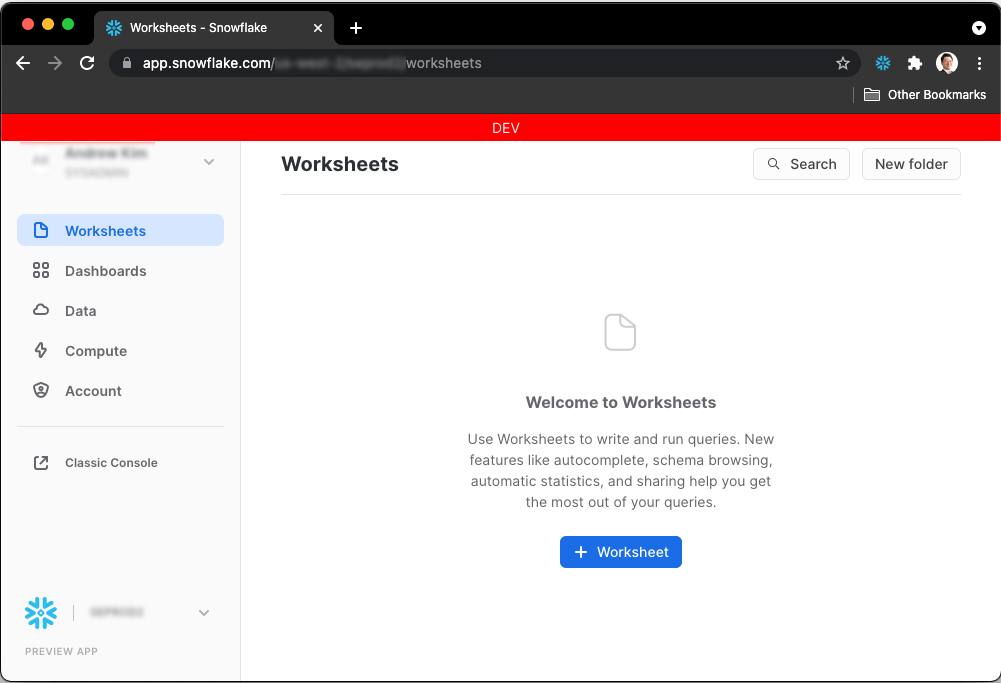
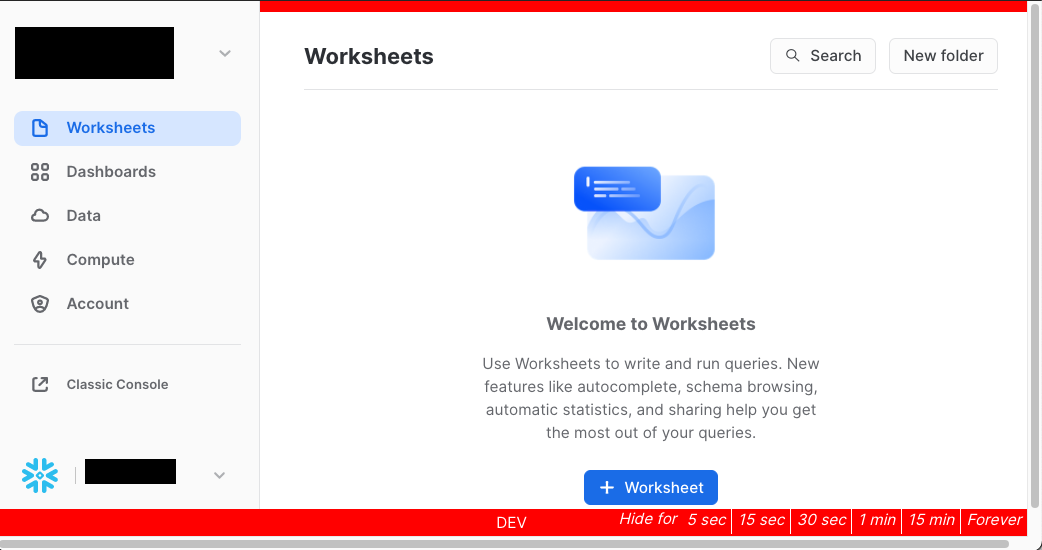
Added updated screenshots. Fixed hiding bug

diff --git a/chrome/content.js b/chrome/content.js
@@ -137,12 +137,28 @@ function BuildBanner() {
 
                         //  Sets the onclick to hide for option's duration
                         action.onclick = (e) => {
-                            document.getElementsByClassName('_snowflake_banner')[0].style.display = "none"
-                            document.getElementsByTagName("head")[0].appendChild(style2)
+                            document.querySelector('div._snowflake_banner').style.display = "none"
+
+                            try {
+                                if (document.querySelector('style#_snowflake_banner_override') === null) {
+                                    document.getElementsByTagName("head")[0].appendChild(style2)
+                                }
+                                document.querySelector('style#_snowflake_banner_override').styleSheet.cssText = styles2;
+                            } catch (e) {
+
+                            }
 
                             setTimeout((e) => {
-                                document.getElementsByClassName('_snowflake_banner')[0].style.display = "block"
-                                document.getElementById('_snowflake_banner_override').remove()
+                                document.querySelector('div._snowflake_banner').style.display = "block"
+                                try {
+                                    document.querySelector('style#_snowflake_banner_override').styleSheet.cssText = "";
+                                    // document.querySelector('style#_snowflake_banner_override').remove()
+                                    // if (document.getElementById('_snowflake_banner_override') !== null) {
+                                    //     document.getElementById('_snowflake_banner_override').remove()
+                                    // }
+                                } catch (e) {
+                                    console.log(e)
+                                }
                             }, hideOptions[i].duration)
                         }
 

diff --git a/chrome/popup.js b/chrome/popup.js
@@ -192,7 +192,7 @@ function buildTable() {
     })
 
     //  Ideally set footer version based on Manifest - TODO
-    console.log(browser.runtime.getManifest().version)
+    // console.log(browser.runtime.getManifest().version)
 }
 
 buildTable()
